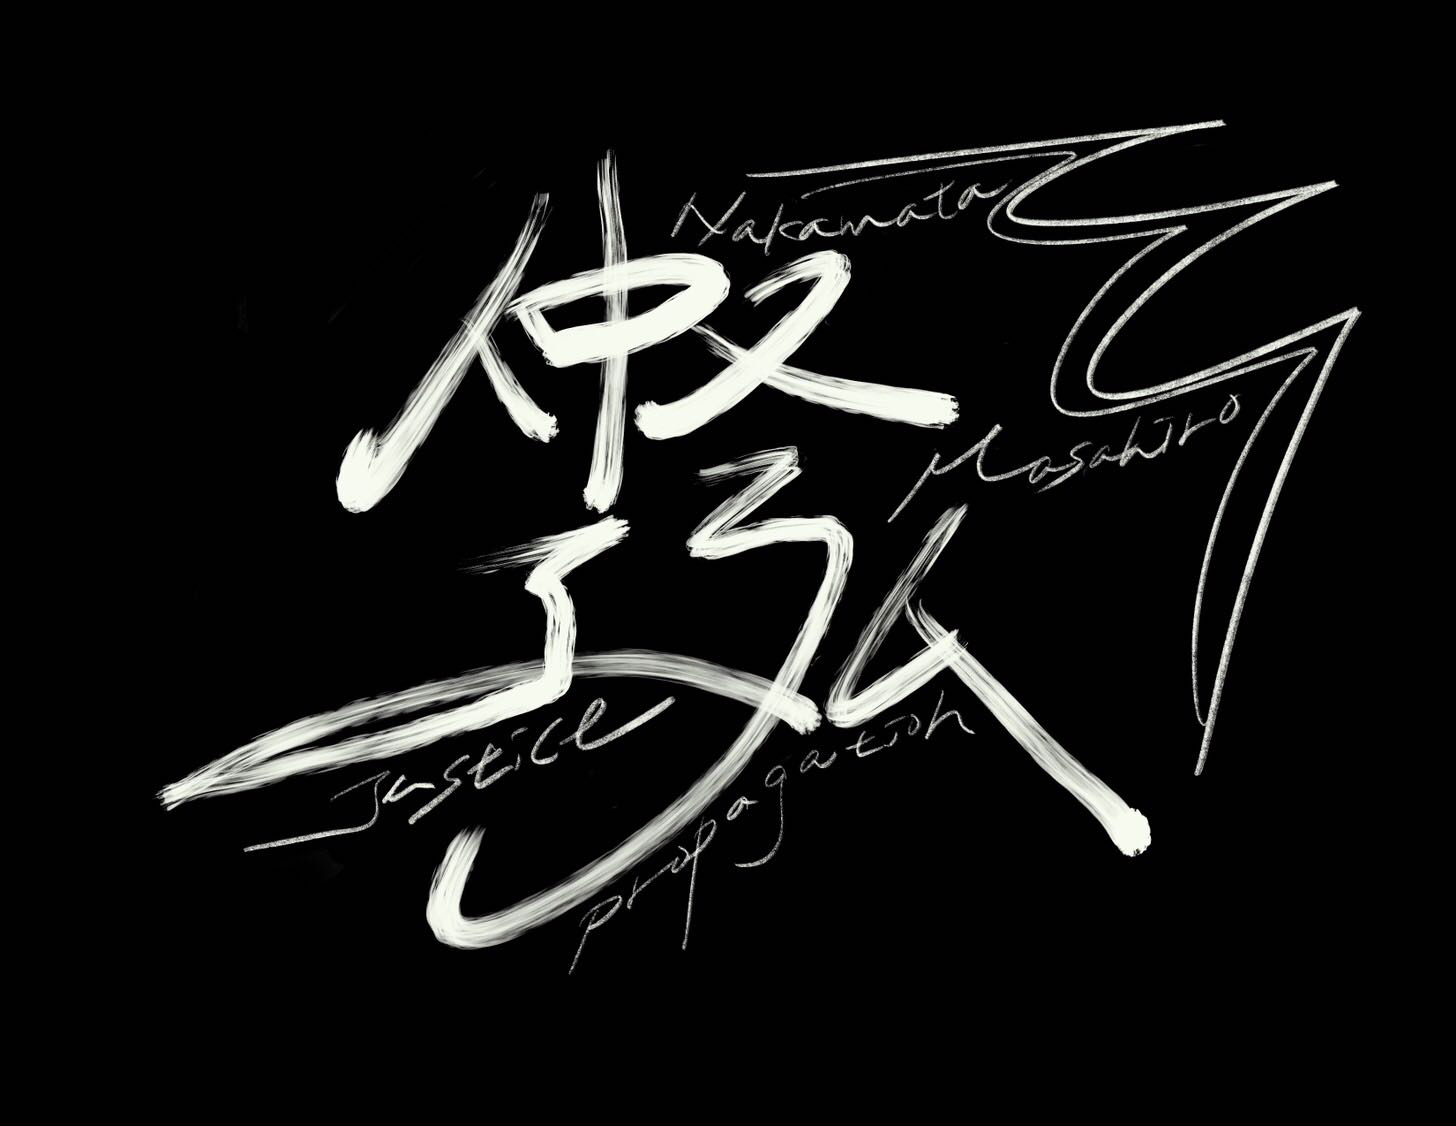
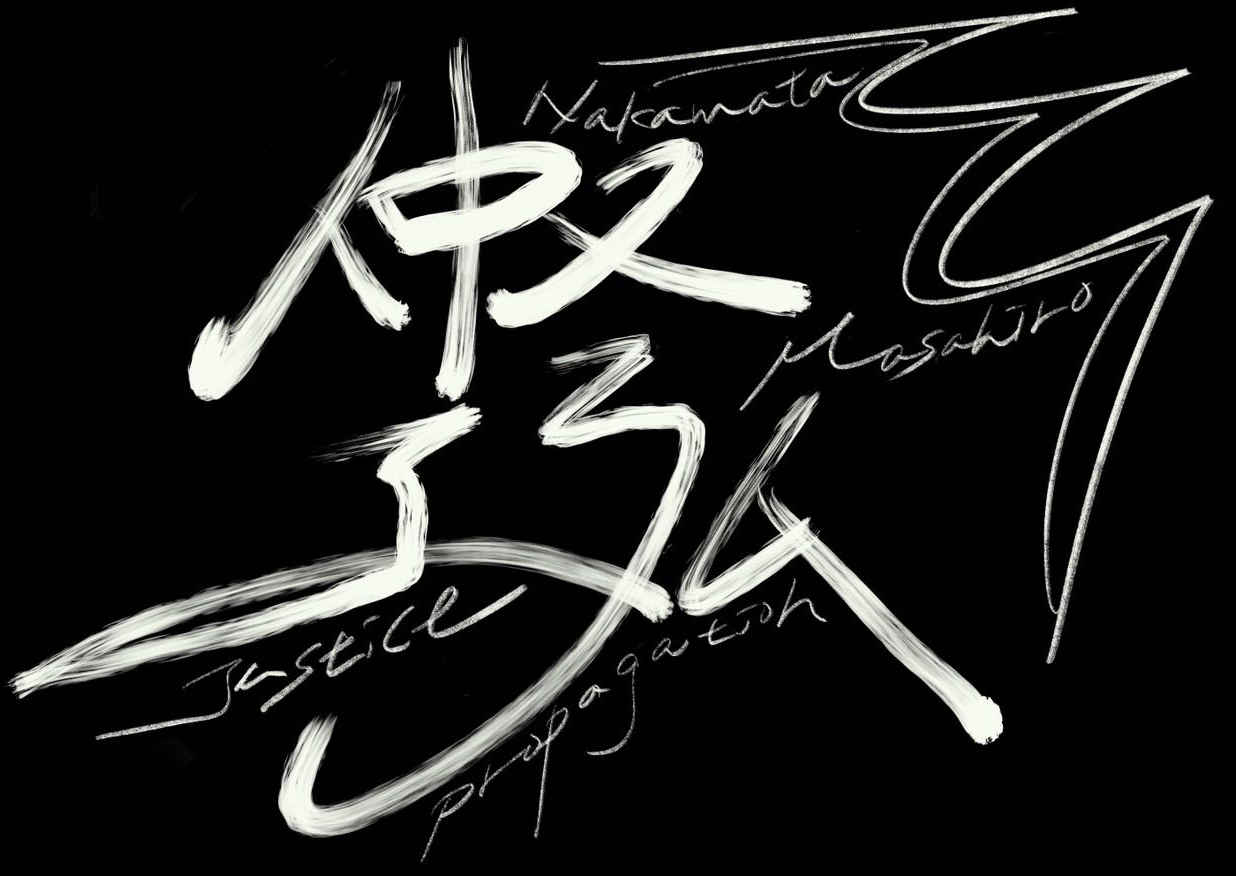
Update home

Changed region(s): [[0.0, 0.0, 0.9838, 0.9555], [0.123, 0.8014, 0.1845, 0.8322], [0.0922, 0.8322, 0.123, 0.863]]

diff --git a/front/src/app/home/home.component.html b/front/src/app/home/home.component.html
@@ -1,8 +1,20 @@
 <div class="tile is-ancestor">
   <div class="tile is-vertical">
-    <div class="tile">
-      <div class="tile is-parent is-vertical is-6 content" app-left-tile></div>
-      <div class="tile is-parent is-vertical" app-right-tile [isHome]="true"></div>
+    <div class="tile is-parent">
+      <div class="tile is-child is-vertical is-6 content">
+        <div class="has-text-centered">
+          <img src="/assets/my_name_gold.png" alt="my name art">
+        </div>
+        <article class="tile is-child notification is-black has-text-centered">
+          <p class="title introduction">Hi, I'm Masahiro Nakamata</p>
+          <p class="subtitle introduction">{{jobTitle}}</p>
+        </article>
+      </div>
+      <div class="tile is-child is-vertical mottoes">
+        <ng-container *ngFor="let motto of mottoes">
+          <p class="title is-3 is-inline-block motto">{{motto | uppercase}}</p>
+        </ng-container>
+      </div>
     </div>
   </div>
 </div>

diff --git a/front/src/index.html b/front/src/index.html
@@ -7,7 +7,7 @@
 
   <meta name="viewport" content="width=device-width, initial-scale=1">
   <link rel="icon" type="image/x-icon" href="favicon.ico">
-  <link href="https://fonts.googleapis.com/css?family=Lato|Noto+Sans|Quantico:400i" rel="stylesheet">
+  <link href="https://fonts.googleapis.com/css?family=Lato|Noto+Sans|Quantico:400,400i" rel="stylesheet">
   <link rel="stylesheet" href="https://use.fontawesome.com/releases/v5.8.2/css/brands.css" integrity="sha384-i2PyM6FMpVnxjRPi0KW/xIS7hkeSznkllv+Hx/MtYDaHA5VcF0yL3KVlvzp8bWjQ" crossorigin="anonymous">
   <link rel="stylesheet" href="https://use.fontawesome.com/releases/v5.8.2/css/fontawesome.css" integrity="sha384-sri+NftO+0hcisDKgr287Y/1LVnInHJ1l+XC7+FOabmTTIK0HnE2ID+xxvJ21c5J" crossorigin="anonymous">
 </head>

diff --git a/front/src/app/app.module.ts b/front/src/app/app.module.ts
@@ -17,8 +17,6 @@ import { BlogComponent } from './blog/blog.component';
 import { HeroComponent } from './hero/hero.component';
 import { ProfileComponent } from './profile/profile.component';
 import { BaseContentComponent } from './base-content/base-content.component';
-import { LeftTileComponent } from './left-tile/left-tile.component';
-import { RightTileComponent } from './right-tile/right-tile.component';
 import { SkillBarComponent } from './skill-bar/skill-bar.component';
 
 @NgModule({
@@ -34,8 +32,6 @@ import { SkillBarComponent } from './skill-bar/skill-bar.component';
     HeroComponent,
     ProfileComponent,
     BaseContentComponent,
-    LeftTileComponent,
-    RightTileComponent,
     SkillBarComponent
   ],
   imports: [

diff --git a/front/src/app/home/home.component.scss b/front/src/app/home/home.component.scss
@@ -1,0 +1,41 @@
+@import "~bulma/sass/utilities/initial-variables";
+@import "~bulma/sass/utilities/mixins";
+
+div {
+  font-family: 'Quantico', sans-serif;
+}
+
+.mottoes {
+  @include tablet {
+    padding-bottom: 8rem;
+    padding-top: 8rem;
+    padding-left: 2rem;
+  }
+
+  @include mobile {
+    padding-bottom: 1rem;
+    padding-top: 1rem;
+    padding-left: 0;
+  }
+}
+
+.motto {
+  color: $yellow;
+  margin-bottom: 3rem;
+}
+
+.motto:after {
+  content: '';
+  display: block;
+  border-top: 0.2rem double $white;
+  margin-top: 0.1em;
+}
+
+.introduction {
+  color: $white;
+  margin-bottom: 1rem;
+}
+
+hr {
+  margin-top: 0;
+}

diff --git a/front/src/app/app.component.ts b/front/src/app/app.component.ts
@@ -12,7 +12,7 @@ export class AppComponent {
   isHome: boolean;
 
   constructor(private location: Location, private router: Router) {
-    this.router.navigate(['skills']);
+    this.router.navigate(['home']);
     this.router.events.subscribe(() => {
       if (this.location.path(true) !== '') {
         this.path = this.location.path(false).substring(1);

diff --git a/front/src/app/app-routing.module.ts b/front/src/app/app-routing.module.ts
@@ -13,7 +13,8 @@ const routes: Routes = [
   {path: 'blog', component: BlogComponent},
   {path: 'skills', component: SkillsComponent},
   {path: 'profile', component: ProfileComponent},
-  {path: 'contact', component: ContactComponent}
+  {path: 'contact', component: ContactComponent},
+  {path: '', redirectTo: '/home', pathMatch: 'full'},
 ];
 
 

diff --git a/front/src/app/home/home.component.ts b/front/src/app/home/home.component.ts
@@ -6,6 +6,12 @@ import { Component, OnInit } from '@angular/core';
   styleUrls: ['./home.component.scss']
 })
 export class HomeComponent implements OnInit {
+  jobTitle = 'Backend Engineer';
+  mottoes = [
+    'Keep asking yourself why',
+    'Stay constructive',
+    'Represent 21st century world'
+  ];
 
   constructor() {
   }

diff --git a/front/src/app/base-content/base-content.component.html b/front/src/app/base-content/base-content.component.html
@@ -1,5 +1,5 @@
 <section class="section">
-  <div class="container is-fluid">
+  <div class="container">
     <router-outlet></router-outlet>
   </div>
 </section>
